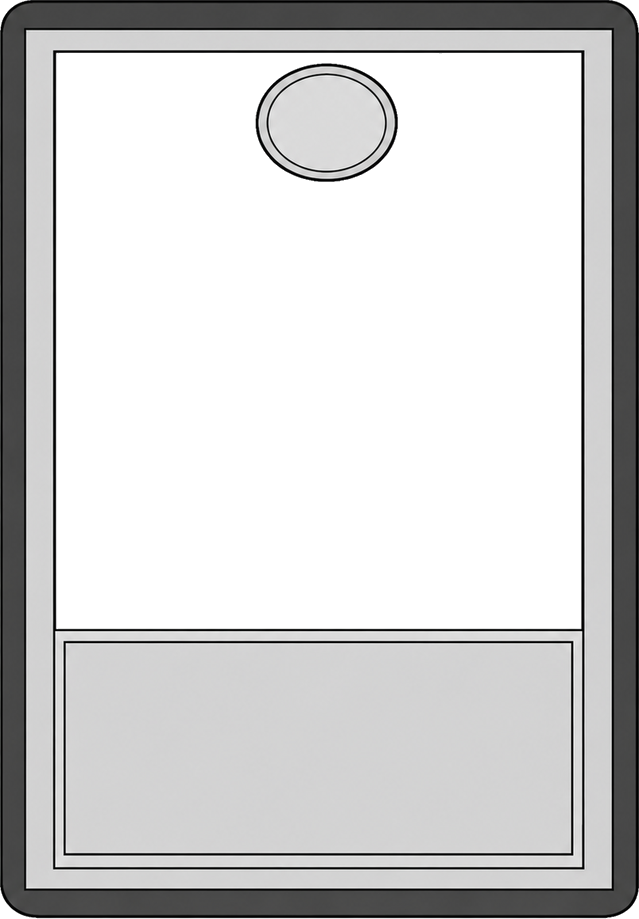
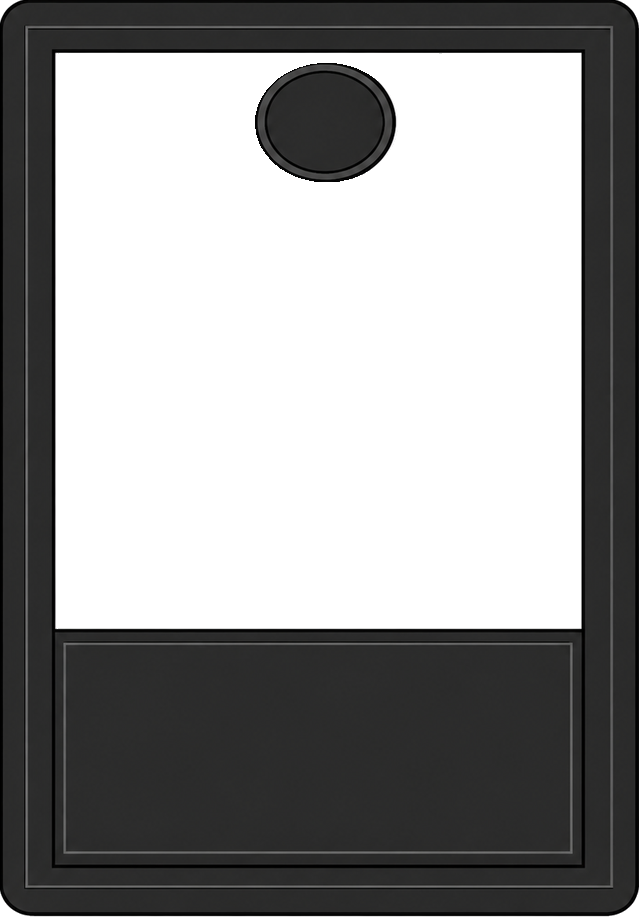
Add Strategy/Deception templates for water, electric, metal, and psychic
Water takes the blue hand-drawn render, Electric the yellow, and Psychic
the pink. Neutral moves to the new black render, and the grey template it
was using since #615 is renamed to metal byte-for-byte.

The pale-panel ink inversion had to move off neutral and become
card-aware: water/electric/metal/psychic spells sit on a pale wash and
need dark type, but a metal *Siegling* keeps the dark painted creature
frame and its light ink, so element alone cannot decide it.

tools/build_spell_frames.py scripts the frame generation from the source
renders; it aligns on the white art window rather than the card
silhouette, since that is the landmark the CSS percentages are measured
against and the one thing every render draws identically.

Verified with a new spell-frame-fixture.html: all nine spell-frame
elements resolve the right class and frame URL, every PNG decodes at
639x919, and panel ink inverts on exactly the four pale templates.

diff --git a/src/main/resources/static/js/game.js b/src/main/resources/static/js/game.js
@@ -999,8 +999,18 @@ const SPELL_TRAP_FRAME_CLASS = {
     EARTH: 'frame-spell-earth',
     ICE: 'frame-spell-ice',
     WIND: 'frame-spell-wind',
+    WATER: 'frame-spell-water',
+    ELECTRIC: 'frame-spell-electric',
+    METAL: 'frame-spell-metal',
+    PSYCHIC: 'frame-spell-psychic',
     NEUTRAL: 'frame-spell-neutral'
 };
+
+// Spell/trap templates whose info panel is a pale wash, so panel type has to
+// invert to dark ink (see getCompactSummaryInkPalette and the matching
+// .card-summary-row rule in style.css). Neutral is deliberately absent: it
+// moved to the black template and takes the default light-on-dark ink.
+const PALE_SPELL_TRAP_FRAMES = new Set(['WATER', 'ELECTRIC', 'METAL', 'PSYCHIC']);
 
 function hasElementFrame(element) {
     return Boolean(ELEMENT_FRAME_CLASS[String(element || '').toUpperCase()]);
@@ -3520,8 +3530,22 @@ function getCompactEffectLabel(kind) {
     }
 }
 
-function getCompactSummaryInkPalette(element) {
+// Dark type with a light halo, for the spell/trap templates whose info panel
+// is a pale wash instead of the usual dark band.
+const PALE_PANEL_INK_PALETTE = {
+    ink: '#1b2231',
+    strong: '#8a4b06',
+    muted: '#3d4658',
+    shadow: 'rgba(255, 255, 255, 0.85)'
+};
+
+function getCompactSummaryInkPalette(element, card) {
     const normalized = String(element || 'NEUTRAL').toUpperCase();
+    // Element alone cannot decide this: a metal Siegling keeps the dark painted
+    // creature frame while a metal spell sits on the pale grey template.
+    if (isSpellTrapCard(card) && PALE_SPELL_TRAP_FRAMES.has(normalized)) {
+        return PALE_PANEL_INK_PALETTE;
+    }
     switch (normalized) {
         case 'FIRE':
             return { ink: '#a8f4ff', strong: '#fff7b0', muted: '#dafbff', shadow: 'rgba(5, 18, 28, 0.94)' };
@@ -3547,17 +3571,13 @@ function getCompactSummaryInkPalette(element) {
             return { ink: '#ffb8df', strong: '#fff4b7', muted: '#ffe0ef', shadow: 'rgba(25, 4, 15, 0.9)' };
         case 'LIGHT':
             return { ink: '#83efff', strong: '#fff8b8', muted: '#d8fbff', shadow: 'rgba(2, 19, 28, 0.92)' };
-        // Neutral spells/traps sit on the pale grey template, so their panel
-        // ink inverts: dark type with a light halo instead of light on dark.
-        case 'NEUTRAL':
-            return { ink: '#1b2231', strong: '#8a4b06', muted: '#3d4658', shadow: 'rgba(255, 255, 255, 0.85)' };
         default:
             return { ink: '#e8f1ff', strong: '#fff0a8', muted: '#cfdcff', shadow: 'rgba(2, 8, 18, 0.92)' };
     }
 }
 
-function getCompactSummaryInkStyle(element) {
-    const palette = getCompactSummaryInkPalette(element);
+function getCompactSummaryInkStyle(element, card) {
+    const palette = getCompactSummaryInkPalette(element, card);
     return [
         `--summary-ink:${palette.ink}`,
         `--summary-strong:${palette.strong}`,
@@ -3756,7 +3776,7 @@ function renderCompactCardSummary(card, options = {}) {
     if (rows.length === 0) {
         return '';
     }
-    return `<div class="card-summary-list" style="${escapeHtmlAttribute(getCompactSummaryInkStyle(card.element))}">${rows.join('')}</div>`;
+    return `<div class="card-summary-list" style="${escapeHtmlAttribute(getCompactSummaryInkStyle(card.element, card))}">${rows.join('')}</div>`;
 }
 
 // Binder/collection variant of the painted-frame info panel: the card's
@@ -3765,7 +3785,7 @@ function renderCompactCardSummary(card, options = {}) {
 // the text to the panel.
 function renderCompactDescriptionSummary(card, descriptionText) {
     const description = String(descriptionText || card?.description || '').trim() || 'Description coming soon.';
-    return `<div class="card-summary-list card-summary-description-list" style="${escapeHtmlAttribute(getCompactSummaryInkStyle(card.element))}" title="${escapeHtmlAttribute(description)}">`
+    return `<div class="card-summary-list card-summary-description-list" style="${escapeHtmlAttribute(getCompactSummaryInkStyle(card.element, card))}" title="${escapeHtmlAttribute(description)}">`
         + `<div class="card-summary-description">${escapeHtml(description)}</div>`
         + '</div>';
 }

diff --git a/src/main/resources/static/css/style.css b/src/main/resources/static/css/style.css
@@ -8564,6 +8564,22 @@ body.placement-active .board-cell.legal {
     --spell-trap-frame-url: url('/img/frames/frame-spell-wind.png');
 }
 
+.hand-card.spell-trap-frame.frame-spell-water {
+    --spell-trap-frame-url: url('/img/frames/frame-spell-water.png');
+}
+
+.hand-card.spell-trap-frame.frame-spell-electric {
+    --spell-trap-frame-url: url('/img/frames/frame-spell-electric.png');
+}
+
+.hand-card.spell-trap-frame.frame-spell-metal {
+    --spell-trap-frame-url: url('/img/frames/frame-spell-metal.png');
+}
+
+.hand-card.spell-trap-frame.frame-spell-psychic {
+    --spell-trap-frame-url: url('/img/frames/frame-spell-psychic.png');
+}
+
 .hand-card.spell-trap-frame.frame-spell-neutral {
     --spell-trap-frame-url: url('/img/frames/frame-spell-neutral.png');
 }
@@ -8673,10 +8689,16 @@ body.placement-active .board-cell.legal {
         0 0 4px rgba(0, 0, 0, 0.72);
 }
 
-/* The neutral template's info panel is pale grey, so its panel type inverts
-   (see the NEUTRAL branch of getCompactSummaryInkPalette in game.js). */
-.hand-card.spell-trap-frame.frame-spell-neutral .card-summary-row,
-.hand-card.spell-trap-frame.frame-spell-neutral .card-summary-description {
+/* These templates carry a pale wash info panel, so their panel type inverts
+   (see PALE_SPELL_TRAP_FRAMES / getCompactSummaryInkPalette in game.js). */
+.hand-card.spell-trap-frame.frame-spell-water .card-summary-row,
+.hand-card.spell-trap-frame.frame-spell-water .card-summary-description,
+.hand-card.spell-trap-frame.frame-spell-electric .card-summary-row,
+.hand-card.spell-trap-frame.frame-spell-electric .card-summary-description,
+.hand-card.spell-trap-frame.frame-spell-metal .card-summary-row,
+.hand-card.spell-trap-frame.frame-spell-metal .card-summary-description,
+.hand-card.spell-trap-frame.frame-spell-psychic .card-summary-row,
+.hand-card.spell-trap-frame.frame-spell-psychic .card-summary-description {
     color: #1b2231;
     text-shadow:
         0 1px 1px rgba(255, 255, 255, 0.85),

diff --git a/src/main/resources/static/spell-frame-fixture.html b/src/main/resources/static/spell-frame-fixture.html
@@ -1,0 +1,41 @@
+<!doctype html>
+<html lang="en">
+<head>
+<meta charset="utf-8">
+<title>Spell / trap frame fixture</title>
+<link rel="stylesheet" href="/css/style.css?v=225">
+<style>
+  body { margin:0; padding:16px; background:#0b0f18; font-family:system-ui, sans-serif; }
+  #stage { display:flex; flex-wrap:wrap; gap:14px; }
+  figure { margin:0; width:240px; }
+  figcaption { color:#cfdcff; font-size:12px; text-align:center; padding-top:6px; }
+  #stage .hand-card { width:240px; max-width:none; min-width:0; }
+</style>
+</head>
+<body>
+<div id="stage"></div>
+<script src="/js/game.js"></script>
+<script>
+// One card per SPELL_TRAP_FRAME_CLASS element so a frame swap can be eyeballed
+// (and the art-window/panel alignment measured) without booting the backend.
+var ELEMENTS = ['FIRE', 'EARTH', 'ICE', 'WIND', 'WATER', 'ELECTRIC', 'METAL', 'PSYCHIC', 'NEUTRAL'];
+var stage = document.getElementById('stage');
+stage.innerHTML = ELEMENTS.map(function (element, i) {
+  var card = {
+    id: 'fixture-' + element.toLowerCase(),
+    name: element.charAt(0) + element.slice(1).toLowerCase() + ' Gambit',
+    type: i % 2 === 0 ? 'SPELL' : 'TRAP',
+    element: element,
+    rarity: 'RARE',
+    costElement: element,
+    costAmount: 2,
+    description: 'Sample copy for panel legibility.',
+    abilities: [{ name: 'Surge', description: 'Deal 3 damage to one enemy Siegling.' }]
+  };
+  return '<figure>'
+    + window.SieglingsCardShowcase.renderShowcaseCard(card, { artVariant: 'preview' })
+    + '<figcaption>' + element + ' / ' + card.type + '</figcaption></figure>';
+}).join('');
+</script>
+</body>
+</html>

diff --git a/src/main/resources/static/play.html b/src/main/resources/static/play.html
@@ -10,7 +10,7 @@
     <link rel="apple-touch-icon" href="/apple-touch-icon.png">
     <link rel="manifest" href="/site.webmanifest">
     <meta name="theme-color" content="#0a1530">
-    <link rel="stylesheet" href="/css/style.css?v=224">
+    <link rel="stylesheet" href="/css/style.css?v=225">
     <!-- Pre-load loading-gate styles so the splash covers the loadout
          screen on the very first Start Battle press - the lazy-injected
          link tag inside loading-gate.js was paint-blocking the gate. -->
@@ -821,7 +821,7 @@
 <script src="/js/config.js"></script>
 <script type="module" src="/js/firebase-init.js?v=2"></script>
     <script src="/js/catalog-sync.js?v=1"></script>
-    <script src="/js/game.js?v=234"></script>
+    <script src="/js/game.js?v=235"></script>
     <!-- Defines window.SieglingsCardBinderVisual (buildArtTransformStyle). Without it,
          getDashboardCardArtMeta() can't build the cardArtScale/offset transform, so
          overlay art renders unscaled on the battle hand, board, and mulligan. -->

diff --git a/src/main/resources/static/card-dashboard.html b/src/main/resources/static/card-dashboard.html
@@ -20,7 +20,7 @@
          card preview needs (the painted element frames). Loaded after home.css
          and before card-dashboard.css so the dashboard's own chrome rules stay
          authoritative. -->
-    <link rel="stylesheet" href="/css/style.css?v=224">
+    <link rel="stylesheet" href="/css/style.css?v=225">
     <link rel="stylesheet" href="/css/card-dashboard.css?v=38">
     <link rel="stylesheet" href="/css/holographic.css?v=3">
 </head>
@@ -1170,7 +1170,7 @@
      renderer). The dashboard preview falls back to the old icon shell without it.
      Loaded at body-end (document.body exists) so its layout init can't throw, and
      before card-binder-visual.js so the showcase is registered first. -->
-<script src="/js/game.js?v=234"></script>
+<script src="/js/game.js?v=235"></script>
 <script src="/js/card-binder-visual.js?v=20"></script>
 <script src="/js/dashboard-info.js?v=7"></script>
 <script src="/js/card-dashboard.js?v=57"></script>

diff --git a/src/main/resources/static/home.html b/src/main/resources/static/home.html
@@ -10,7 +10,7 @@
     <link rel="apple-touch-icon" href="/apple-touch-icon.png">
     <link rel="manifest" href="/site.webmanifest">
     <meta name="theme-color" content="#0a1530">
-    <link rel="stylesheet" href="/css/style.css?v=224">
+    <link rel="stylesheet" href="/css/style.css?v=225">
     <link rel="stylesheet" href="/css/home.css?v=125">
 </head>
 <body>
@@ -411,7 +411,7 @@
 
 <script src="/js/qrcode-vendor.js?v=1"></script>
 <script src="/js/catalog-sync.js?v=1"></script>
-<script src="/js/game.js?v=234"></script>
+<script src="/js/game.js?v=235"></script>
 <script src="/js/card-binder-visual.js?v=20"></script>
 <script src="/js/achievements.js?v=8"></script>
 <script src="/js/home.js?v=136"></script>

diff --git a/tools/build_spell_frames.py b/tools/build_spell_frames.py
@@ -1,0 +1,144 @@
+"""Turn a hand-drawn spell/trap template render into a game-ready frame PNG.
+
+The source renders arrive as ~1254x1254 RGB images with the card floating on a
+near-white page. The shipped frames are 639x919 RGBA with the art window, the
+oval energy socket cut-out's surround, and everything outside the rounded card
+silhouette punched transparent, because play.html paints card art *under* the
+frame (see `.hand-card.spell-trap-frame::after` in style.css).
+
+Alignment is driven off the white art window rather than the card silhouette:
+the CSS percentages for the title, art window, panel, and cost chip are all
+measured against it, and it is the one landmark every template renders
+identically. The target coordinates below were fitted against the shipped
+frame-spell-neutral.png (mean per-pixel delta 3.5/765 when the fit is replayed
+on its own source), so re-running this on that source reproduces it.
+
+Usage: python tools/build_spell_frames.py <source.png> <element>
+"""
+
+import sys
+from collections import deque
+
+import numpy as np
+from PIL import Image
+
+TARGET_W, TARGET_H = 639, 919
+
+# Where the source's white art window must land in the 639x919 canvas.
+ART_X0, ART_X1 = 56.364, 580.269
+ART_Y0, ART_Y1 = 53.633, 627.899
+
+FRAME_DIR = "src/main/resources/static/img/frames"
+# The metal template (the original hand-drawn grey render) is the geometry
+# reference: neutral was re-skinned to the black render and no longer holds the
+# fitted mask this script was calibrated against.
+REFERENCE_ALPHA = f"{FRAME_DIR}/frame-spell-metal.png"
+
+
+def find_art_window(path):
+    """Bounds of the card's white art window in source pixels."""
+    im = np.array(Image.open(path).convert("RGB")).astype(int)
+    height, width, _ = im.shape
+    white = im.min(axis=2) > 238
+    # 38% down the page is inside the art window on every template: below the
+    # oval socket, above the info panel.
+    y = int(height * 0.38)
+    row = white[y]
+    x0 = x1 = width // 2
+    while x0 > 0 and row[x0 - 1]:
+        x0 -= 1
+    while x1 < width - 1 and row[x1 + 1]:
+        x1 += 1
+    # Sample the vertical run left of the oval so it does not clip the scan.
+    col = white[:, int(x0 + (x1 - x0) * 0.15)]
+    y0 = y1 = y
+    while y0 > 0 and col[y0 - 1]:
+        y0 -= 1
+    while y1 < height - 1 and col[y1 + 1]:
+        y1 += 1
+    return x0, x1, y0, y1
+
+
+def align(path):
+    x0, x1, y0, y1 = find_art_window(path)
+    scale_x = (ART_X1 - ART_X0) / (x1 - x0)
+    scale_y = (ART_Y1 - ART_Y0) / (y1 - y0)
+    left = x0 - ART_X0 / scale_x
+    top = y0 - ART_Y0 / scale_y
+    box = (left, top, left + TARGET_W / scale_x, top + TARGET_H / scale_y)
+    return Image.open(path).convert("RGB").resize((TARGET_W, TARGET_H), Image.LANCZOS, box=box)
+
+
+def page_background_mask(rgb):
+    """Flood the near-white page in from the canvas edges.
+
+    Filling rather than thresholding keeps the white art window opaque here —
+    the card's outline seals it off from the page — so the art punch stays the
+    reference mask's job.
+    """
+    page = rgb[2, 2].astype(int)
+    close = (np.abs(rgb.astype(int) - page).sum(axis=2) < 60)
+    mask = np.zeros(close.shape, dtype=bool)
+    queue = deque()
+    h, w = close.shape
+    for x in range(w):
+        for y in (0, h - 1):
+            if close[y, x] and not mask[y, x]:
+                mask[y, x] = True
+                queue.append((y, x))
+    for y in range(h):
+        for x in (0, w - 1):
+            if close[y, x] and not mask[y, x]:
+                mask[y, x] = True
+                queue.append((y, x))
+    while queue:
+        y, x = queue.popleft()
+        for dy, dx in ((1, 0), (-1, 0), (0, 1), (0, -1)):
+            ny, nx = y + dy, x + dx
+            if 0 <= ny < h and 0 <= nx < w and close[ny, nx] and not mask[ny, nx]:
+                mask[ny, nx] = True
+                queue.append((ny, nx))
+    return mask
+
+
+def art_window_mask():
+    """The reference frame's art punch, minus its own silhouette cut-out."""
+    ref = np.array(Image.open(REFERENCE_ALPHA))[..., 3]
+    transparent = ref < 128
+    # The silhouette cut-out touches the canvas edge; the art window does not.
+    edge = np.zeros_like(transparent)
+    edge[0, :] = edge[-1, :] = True
+    edge[:, 0] = edge[:, -1] = True
+    outside = np.zeros_like(transparent)
+    queue = deque()
+    h, w = transparent.shape
+    for y, x in zip(*np.where(transparent & edge)):
+        outside[y, x] = True
+        queue.append((y, x))
+    while queue:
+        y, x = queue.popleft()
+        for dy, dx in ((1, 0), (-1, 0), (0, 1), (0, -1)):
+            ny, nx = y + dy, x + dx
+            if 0 <= ny < h and 0 <= nx < w and transparent[ny, nx] and not outside[ny, nx]:
+                outside[ny, nx] = True
+                queue.append((ny, nx))
+    return transparent & ~outside
+
+
+def build(source, element):
+    aligned = align(source)
+    rgb = np.array(aligned)
+    alpha = np.full(rgb.shape[:2], 255, dtype=np.uint8)
+    alpha[page_background_mask(rgb)] = 0
+    alpha[art_window_mask()] = 0
+    out = Image.fromarray(np.dstack([rgb, alpha]), "RGBA")
+    png = f"{FRAME_DIR}/frame-spell-{element}.png"
+    out.save(png)
+    # Lossy webp twin, matching the other frames: the CSS only ever loads the
+    # PNG, so this is the size-conscious copy for anything that prefers webp.
+    out.save(f"{FRAME_DIR}/frame-spell-{element}.webp", quality=90, method=6)
+    print(f"wrote {png} (+ .webp)")
+
+
+if __name__ == "__main__":
+    build(sys.argv[1], sys.argv[2])

diff --git a/progress.md b/progress.md
@@ -1,5 +1,8 @@
 Original prompt: fix the programming so Siegling size bands translate to larger sizes on bigger screens, desktops, etc.
 
+- August 6, 2026 Strategy/Deception templates for water, electric, metal, and psychic: added four hand-drawn spell/trap frames and re-skinned neutral. `frame-spell-water/electric/psychic.png` (+ `.webp` twins) are built from the owner's blue/yellow/pink renders; the grey render that shipped as neutral in #615 is renamed to `frame-spell-metal.png` byte-for-byte; and neutral takes the new black render. `SPELL_TRAP_FRAME_CLASS` in `js/game.js` gained WATER/ELECTRIC/METAL/PSYCHIC (a spell of those elements now takes the spell template instead of the creature frame its element also maps to in `ELEMENT_FRAME_CLASS`), and `style.css` gained the four `--spell-trap-frame-url` rules. The pale-panel ink inversion moved off neutral: `PALE_SPELL_TRAP_FRAMES` + the `PALE_PANEL_INK_PALETTE` branch in `getCompactSummaryInkPalette` now cover water/electric/metal/psychic, with the matching `.card-summary-row/.card-summary-description` override extended to those four classes. The palette had to become card-aware rather than element-keyed — a metal *Siegling* keeps the dark painted creature frame and its light ink, so `getCompactSummaryInkStyle(element, card)` now takes the card and both call sites pass it. Frame generation is scripted in `tools/build_spell_frames.py`: it aligns each source render's white art window onto fitted target coordinates (replaying the fit on the original grey source reproduces the shipped PNG to a mean per-pixel delta of 3.5/765), flood-fills the page background in from the canvas edges for the outside-the-corners transparency, and reuses the reference frame's art-window punch. Cache busting advanced to `style.css?v=225` and `game.js?v=235` in `play.html`, `home.html`, and `card-dashboard.html`.
+- Verification: a new `spell-frame-fixture.html` renders one card per `SPELL_TRAP_FRAME_CLASS` element through `SieglingsCardShowcase.renderShowcaseCard`. Under Playwright (Chromium 1217, `python -m http.server` over `src/main/resources/static`) all nine resolve the expected `frame-spell-*` class and `--spell-trap-frame-url`, every frame PNG decodes at 639x919, and row ink computes to `rgb(27, 34, 49)` on water/electric/metal/psychic against `rgb(247, 251, 255)` on fire/earth/ice/wind/neutral — confirming neutral flipped to light ink with the black template. No console or page errors and no failed requests. Pillow comparison of the five hand-drawn frames shows the art window, oval socket, and info panel landing on identical pixels, and a corner crop shows the rounded silhouette cut cleanly with no page-white halo. Screenshot: `output/web-game/spell-frames-elements.png`.
+
 - August 6, 2026 Keep residents now scale from responsive desktop bases before the existing Small / Medium / Large / Gigantic multiplier is applied. Woodlot, staffed workshop, Covenant Hall favorite, Enclave interior, grounds worker, and exterior Enclave cutouts use capped `clamp()` dimensions; the `max-width: 767px` rules retain their compact phone sizes. Advanced the Keep stylesheet pin to `keep.css?v=54` and expanded the regression guard to require responsive bases.
 - Verification: focused Keep regression tests pass. A viewport matrix at 390x844, 1280x720, 1920x1080, and 2560x1440 showed the Gigantic Woodlot cutout at about 212x260px on 1920x1080, with Enclave Small/Medium/Large/Gigantic heights of 131/156/193/252px. Phone sizes remained compact; no overflow or browser errors were observed.
 
